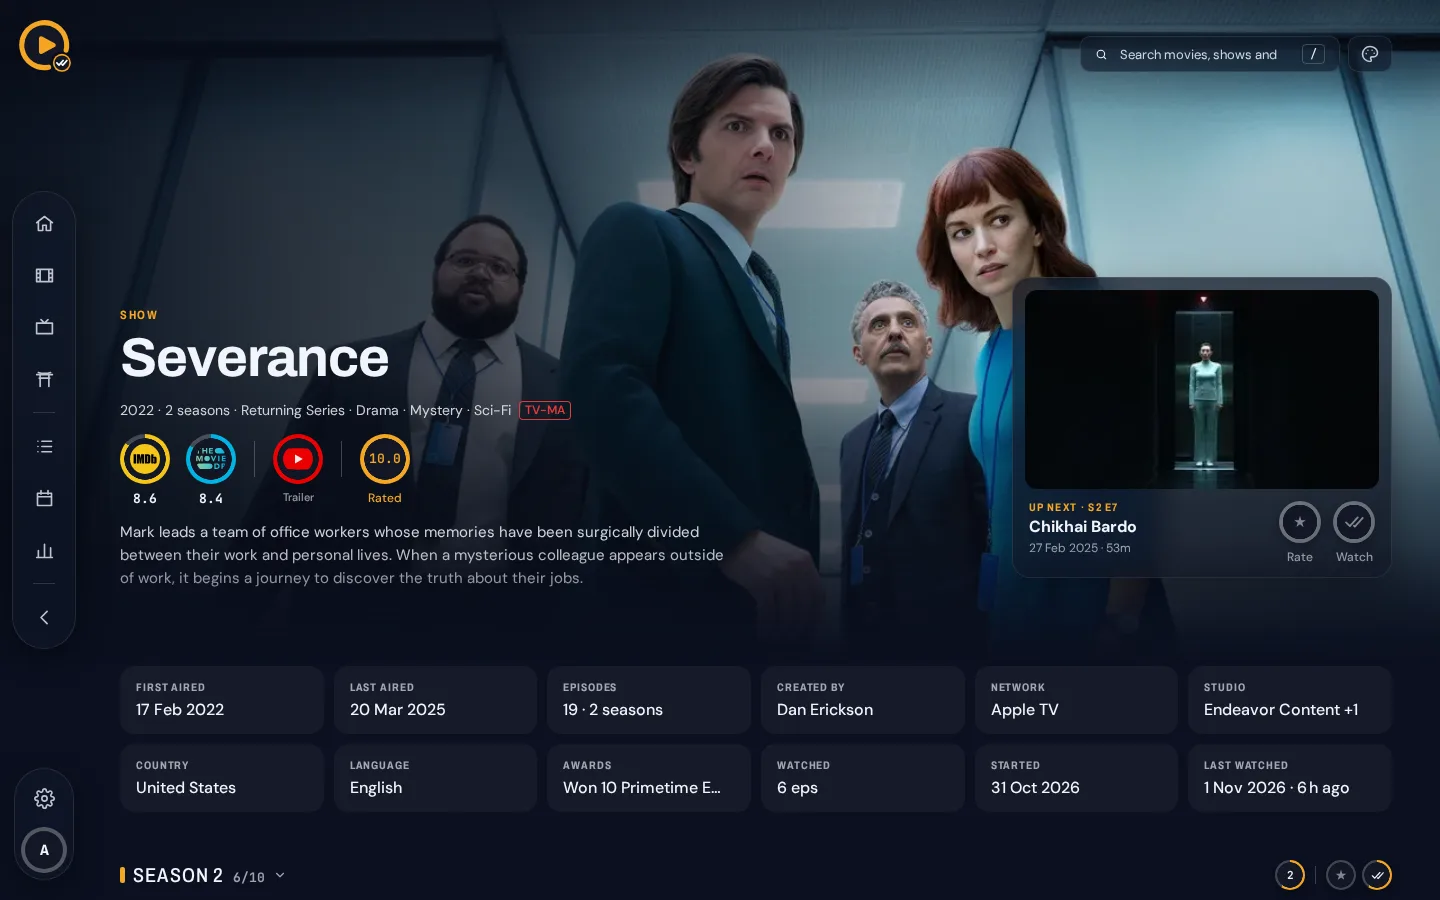
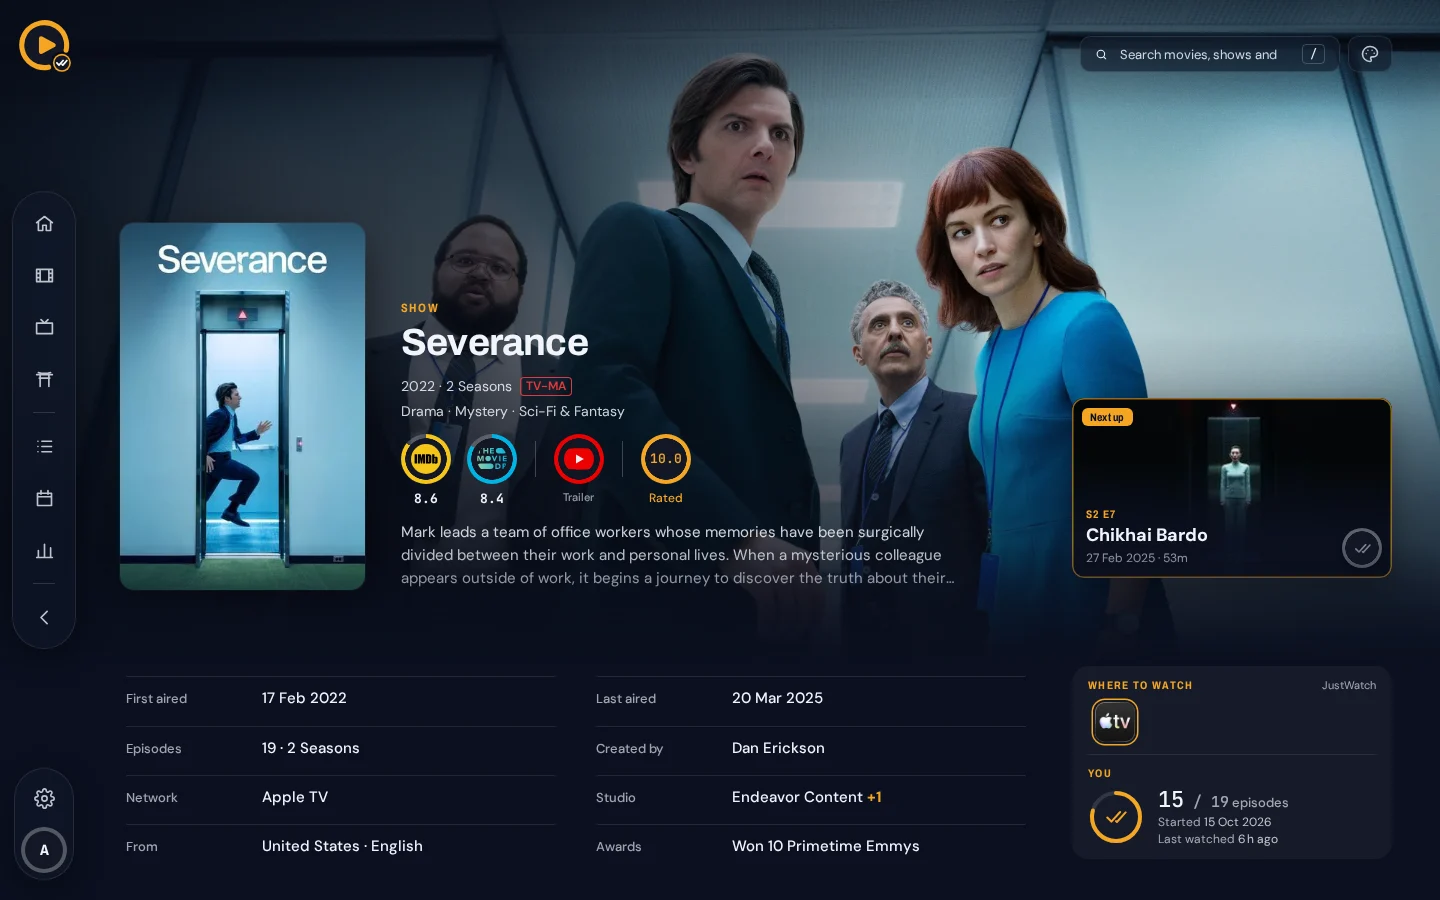
docs: screenshots of the list builder and title page

diff --git a/README.md b/README.md
@@ -9,16 +9,16 @@ Self-hosted, with invite-only sign-up, so you can share it with family and frien
 
 <p>
   <img src="docs/screenshots/movies.webp" alt="Movies: the trending carousel and rows" width="49%">
-  <img src="docs/screenshots/title.webp" alt="A title with its episodes" width="49%">
+  <img src="docs/screenshots/title.webp" alt="A title with Where to watch and your progress" width="49%">
   <img src="docs/screenshots/stats.webp" alt="Stats" width="49%">
   <img src="docs/screenshots/lists.webp" alt="Lists and smart lists" width="49%">
   <img src="docs/screenshots/calendar.webp" alt="Airing calendar" width="49%">
   <img src="docs/screenshots/history.webp" alt="History" width="49%">
 </p>
 <p>
-  <img src="docs/screenshots/smart-basics.webp" alt="Smart list builder: basics" width="32.5%">
+  <img src="docs/screenshots/smart-basics.webp" alt="Smart list builder: general" width="32.5%">
   <img src="docs/screenshots/smart-scores.webp" alt="Smart list builder: scores" width="32.5%">
-  <img src="docs/screenshots/smart-streaming.webp" alt="Smart list builder: streaming services" width="32.5%">
+  <img src="docs/screenshots/smart-streaming.webp" alt="Smart list builder: where to watch" width="32.5%">
 </p>
 <p align="center">
   <img src="docs/screenshots/phone-home.webp" alt="Home on a phone" width="24%">
